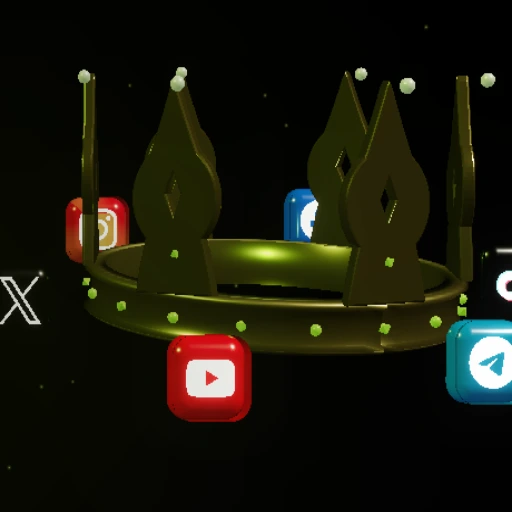
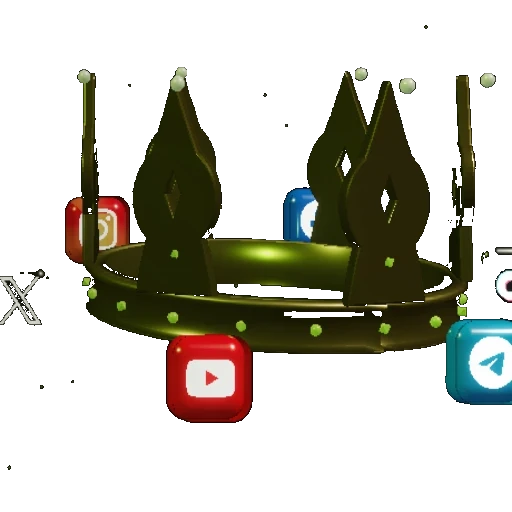
fix(vps): restore 3D crown canvas and remove bholu dev bypass button from login

diff --git a/apps/web/app/(auth)/login/page.tsx b/apps/web/app/(auth)/login/page.tsx
@@ -61,28 +61,6 @@ export default function LoginPage() {
     setServerError(null);
     const email = data.usernameOrEmail.toLowerCase().trim();
 
-    // Local dev bypass for bholu@gmail.com
-    const isLocalDev =
-      process.env.NODE_ENV !== "production" ||
-      (typeof window !== "undefined" &&
-        (window.location.hostname === "localhost" ||
-          window.location.hostname === "127.0.0.1"));
-
-    if (isLocalDev && email === "bholu@gmail.com") {
-      establishSession(
-        {
-          id: "usr_bholu_local_id",
-          email: "bholu@gmail.com",
-          name: "Bholu",
-          role: "CUSTOMER",
-          balance: 5000,
-          currency: "INR",
-        },
-        `jwt_demo_bholu_${Date.now()}`
-      );
-      return;
-    }
-
     try {
       const apiBase = getApiBase();
 
@@ -243,26 +221,6 @@ export default function LoginPage() {
               >
                 <span>{isSubmitting ? "Authenticating..." : "Sign In to Account"}</span>
                 <ArrowRight className="w-4 h-4" />
-              </button>
-
-              <button
-                type="button"
-                onClick={() => {
-                  establishSession(
-                    {
-                      id: "usr_bholu_local_id",
-                      email: "bholu@gmail.com",
-                      name: "Bholu",
-                      role: "CUSTOMER",
-                      balance: 5000,
-                      currency: "INR",
-                    },
-                    `jwt_demo_bholu_${Date.now()}`
-                  );
-                }}
-                className="w-full py-2.5 rounded-xl bg-white/5 hover:bg-white/10 text-[#D8EC8D] text-xs font-mono border border-[#D8EC8D]/30 transition-all flex items-center justify-center gap-2 mt-2 cursor-pointer"
-              >
-                ⚡ Local Dev: Direct Sign In as bholu@gmail.com
               </button>
             </form>
 

diff --git a/apps/web/components/motion/useMotionPreference.ts b/apps/web/components/motion/useMotionPreference.ts
@@ -8,6 +8,19 @@ export interface MotionPreference {
   canRender3D: boolean;
 }
 
+function isWebGLSupported(): boolean {
+  if (typeof window === "undefined") return true;
+  try {
+    const canvas = document.createElement("canvas");
+    return Boolean(
+      window.WebGLRenderingContext &&
+        (canvas.getContext("webgl") || canvas.getContext("experimental-webgl"))
+    );
+  } catch {
+    return false;
+  }
+}
+
 export function useMotionPreference(): MotionPreference {
   const [pref, setPref] = useState<MotionPreference>({
     reduced: false,
@@ -18,6 +31,7 @@ export function useMotionPreference(): MotionPreference {
   useEffect(() => {
     let reduced = false;
     let lowPower = false;
+    const webglOk = isWebGLSupported();
 
     // Check prefers-reduced-motion
     if (typeof window !== "undefined" && window.matchMedia) {
@@ -28,7 +42,6 @@ export function useMotionPreference(): MotionPreference {
         setPref((prev) => ({
           ...prev,
           reduced: e.matches,
-          canRender3D: !e.matches,
         }));
       };
       motionQuery.addEventListener("change", handleMotionChange);
@@ -42,17 +55,10 @@ export function useMotionPreference(): MotionPreference {
       }
     }
 
-    if (reduced) {
-      console.info("[3D fallback] prefers-reduced-motion enabled by user");
-    }
-    if (lowPower) {
-      console.info("[3D fallback] low-power/Save-Data mode active - rendering at dpr 1.0");
-    }
-
     setPref({
       reduced,
       lowPower,
-      canRender3D: !reduced,
+      canRender3D: webglOk,
     });
   }, []);
 

diff --git a/apps/web/components/three/AuthCrown3D.tsx b/apps/web/components/three/AuthCrown3D.tsx
@@ -116,7 +116,7 @@ export function AuthCrown3D({
     mousePos.current = [0, 0];
   };
 
-  const shouldUseFallback = !isClient || reduced || !canRender3D || lowPower;
+  const isWebGLAvailable = isClient && canRender3D;
 
   return (
     <div
@@ -128,18 +128,7 @@ export function AuthCrown3D({
       {/* Radial soft emerald-lime atmospheric backlight */}
       <div className="absolute inset-0 bg-[#243100]/40 blur-[80px] rounded-full pointer-events-none -z-10" />
 
-      {shouldUseFallback ? (
-        <div className="w-full h-full flex items-center justify-center p-4">
-          <Image
-            src="/brand/crown@2x.webp"
-            alt="SMM Panel 3D Glass Crown emblem"
-            width={400}
-            height={400}
-            priority
-            className="w-full h-full object-contain mix-blend-screen drop-shadow-[0_0_40px_rgba(219,239,144,0.3)] pointer-events-none"
-          />
-        </div>
-      ) : (
+      {isWebGLAvailable ? (
         <Canvas
           dpr={[1, 1.5]}
           camera={{ position: [0, 0, 5.4], fov: 36 }}
@@ -167,6 +156,10 @@ export function AuthCrown3D({
             <AuthCrownRig mousePos={mousePos} />
           </React.Suspense>
         </Canvas>
+      ) : (
+        <div className="w-full h-full flex items-center justify-center p-4">
+          <div className="w-32 h-32 rounded-full bg-[#D8EC8D]/10 animate-pulse blur-xl" />
+        </div>
       )}
     </div>
   );

diff --git a/apps/web/components/three/CrownSlot.tsx b/apps/web/components/three/CrownSlot.tsx
@@ -15,31 +15,13 @@ export interface CrownSlotProps {
 export function CrownSlot({
   id,
   className = "",
-  showPosterFallback = false,
 }: CrownSlotProps) {
-  const { reduced, canRender3D } = useMotionPreference();
-  const isPosterNeeded = showPosterFallback || reduced || !canRender3D;
-
   return (
     <div
       id={`crown-slot-${id}`}
       data-crown-slot={id}
       className={`relative flex items-center justify-center pointer-events-none select-none ${className}`}
       aria-hidden="true"
-    >
-      {/* Fallback transparent poster: rendered only if 3D is disabled or reduced motion is active */}
-      {isPosterNeeded && (
-        <div className="relative w-full h-full flex items-center justify-center">
-          <Image
-            src="/brand/crown-royal@2x.webp"
-            alt=""
-            width={160}
-            height={160}
-            className="w-full h-full object-contain pointer-events-none select-none"
-            priority={id === "hero"}
-          />
-        </div>
-      )}
-    </div>
+    />
   );
 }

diff --git a/apps/web/components/three/CrownStage.tsx b/apps/web/components/three/CrownStage.tsx
@@ -187,8 +187,7 @@ export function CrownStage() {
     return () => window.removeEventListener("mousemove", handleMouseMove);
   }, [reduced, canRender3D, isMobile]);
 
-  const shouldUseFallback =
-    !isClient || reduced || !canRender3D || isMobile || lowPower;
+  const shouldUseFallback = !isClient || !canRender3D;
 
   if (shouldUseFallback) {
     return (

diff --git a/apps/web/components/three/TravelingCrownCanvas.tsx b/apps/web/components/three/TravelingCrownCanvas.tsx
@@ -435,8 +435,8 @@ export function TravelingCrownCanvas() {
     }
   }, []);
 
-  // When prefers-reduced-motion is requested or 3D is not supported, do not mount 3D canvas
-  if (!isClient || reduced || !canRender3D) {
+  // Ensure 3D canvas mounts reliably on client when WebGL is available
+  if (!isClient || !canRender3D) {
     return null;
   }
 
